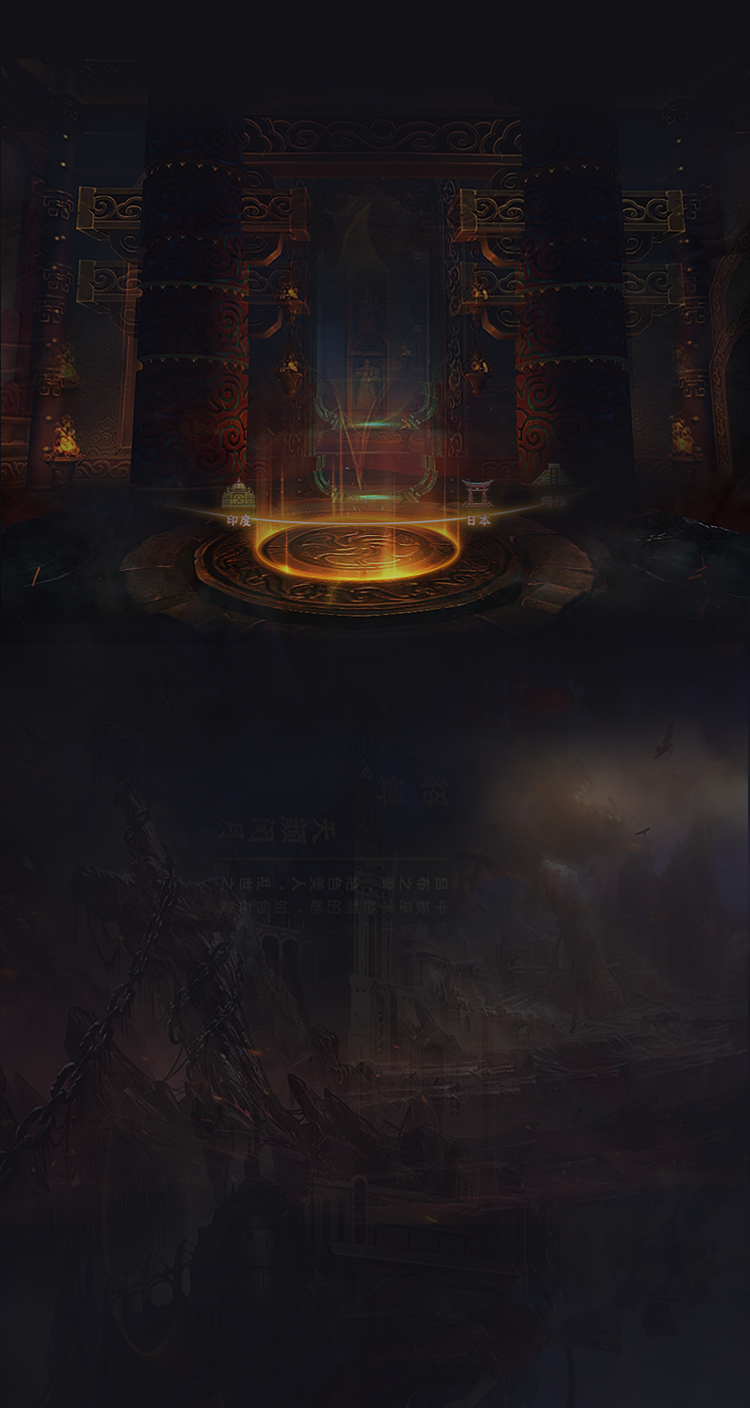
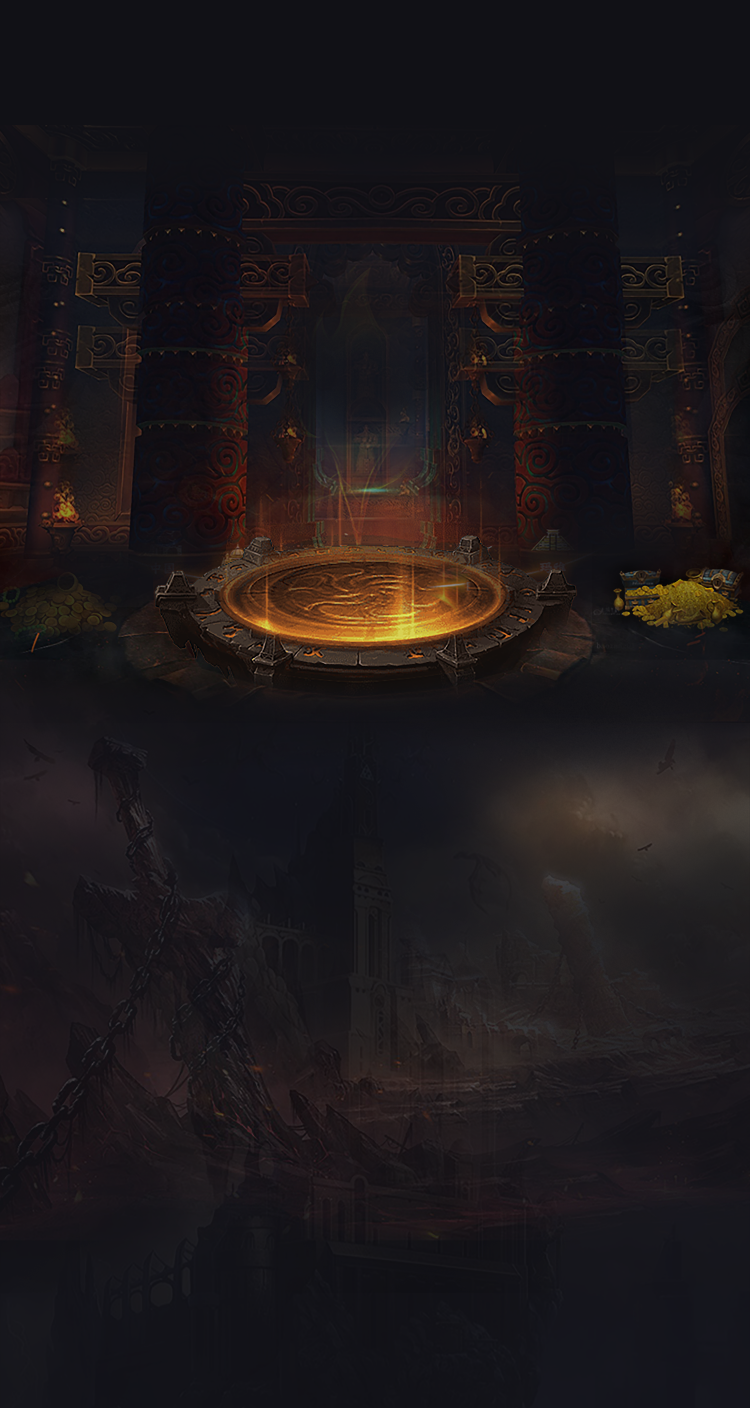
commit

diff --git a/css/giftPacks.css b/css/giftPacks.css
@@ -25,7 +25,7 @@ body {
 	bottom: 0;
 	left: 0;
 	right: 0;
-	background: url(../img/giftPacks/bg.png);
+	background: url(../img/giftPacks/bg2.png);
 	background-size: cover;
 }
 .top-talk {
@@ -108,10 +108,55 @@ body {
 	right: 0;
 	transform: scale(.9,.9);
 }
+.gift-box-wrap {
+	position: relative;
+    top: 3%;
+    left: -1%;
+    width: 375px;
+    margin: 0 auto;
+}
+.gift-box-wrap img {
+	width: 130%;
+    position: absolute;
+    top: -28%;
+    /* z-index: 0; */
+    left: -12%;
+}
 .gift-box {
-	width: 100%;
-	top: 20%;
-	position: absolute;
+	background: url(./../img/giftPacks/box-animate.png);
+	width: 610px;
+	height:417px;
+	animation: boxopen 2s 2s steps(18) forwards;
+	zoom:0.5;
+	margin: 0 auto;
+	position: relative;
+	/* transition-delay: 2s; */
+}
+@keyframes boxopen{
+	from {
+		background-position: 0 0;
+	}
+	to {
+		background-position: -1800% 0px;
+	}
+}
+.light {
+	width: 349px;
+	height: 174px;
+	background: url(./../img/giftPacks/light.png);
+	animation: light 1s 2s steps(7) infinite;
+	zoom:0.5;
+	margin: 0 auto;
+	margin-top: -140px;
+	position: relative;
+}
+@keyframes light{
+	from {
+		background-position: 0 0;
+	}
+	to {
+		background-position: -700% 0px;
+	}
 }
 .gift-box img {
 	width: 100%;
@@ -121,10 +166,22 @@ body {
     .gift-packs-wrap {
         padding-top: 88px;   //为导航栏+状态栏的高度 88px  
     }
-} */
+    } */
 /*iPhone5的适配*/
-@media (max-width: 320px){
-  .tips-word {
-  	transform: scale(.8,.8);
-  }
+@media only screen and (max-width: 320px){
+	.tips-word {
+		transform: scale(.8,.8);
+	}
+}
+@media only screen and (max-width: 374px){
+	.gift-box-wrap {
+		width: 320px;
+
+	}
+	.gift-box, .light  {
+      zoom:0.4;
+	}
+	.gift-box-wrap img {
+		top: -36%;
+	}
 }

diff --git a/giftPacks.html b/giftPacks.html
@@ -11,8 +11,11 @@
 		<div class="top-talk">
 			<img src="img/giftPacks/talk.png" alt="">
 		</div>
-		<div class="gift-box">
-			<img src="img/giftPacks/box.png" alt="">
+		<div class="gift-box-wrap">
+			<img src="img/giftPacks/mask.png" alt="">
+			<div class="gift-box">
+			</div>
+			<div class="light"></div>
 		</div>
 		<div class="play-way-wrap">
 			<img src="img/giftPacks/way.png" alt="">
